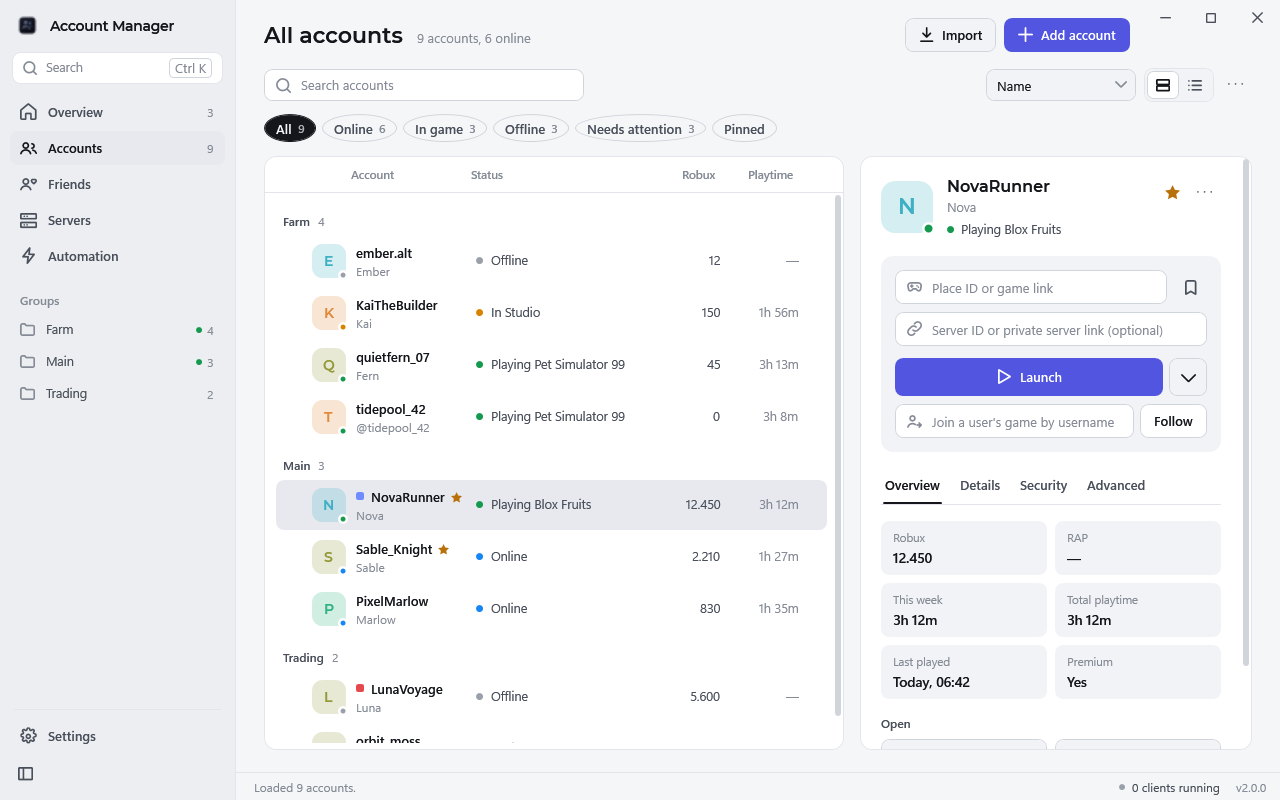
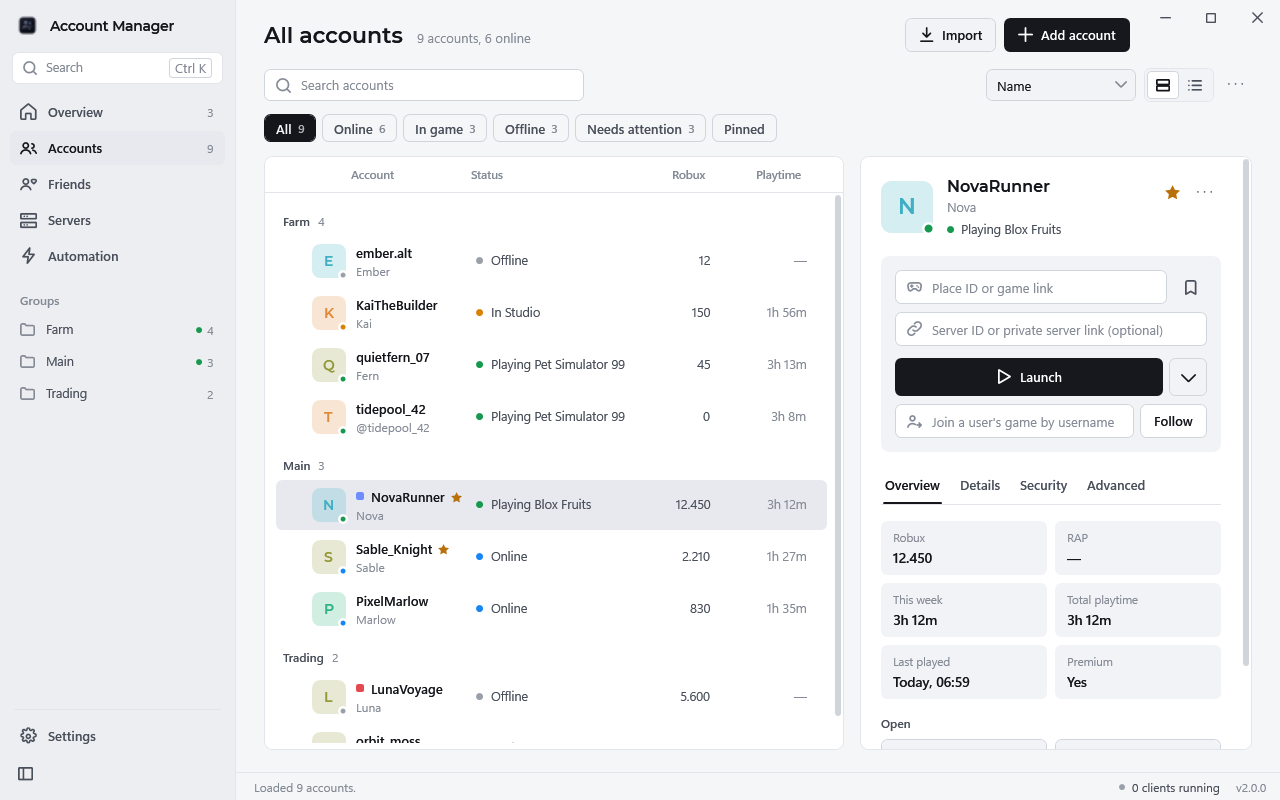
Tighter corner radii across the interface, shorter duration format
- Chips and badges are rounded rectangles instead of pills; radius scale reduced
  (3/4/6/8/10), switches, avatars, swatches and dialog footers follow it
- German and Polish durations use "h"/"min" so playtime no longer clips in the
  account list and on the Overview; playtime column slightly wider
- README screenshots re-rendered, appearance feature line corrected

diff --git a/src/Views/AccountsPage.xaml b/src/Views/AccountsPage.xaml
@@ -17,16 +17,16 @@
                     <ColumnDefinition Width="26" />
                     <ColumnDefinition Width="44" />
                     <ColumnDefinition Width="*" MinWidth="120" />
-                    <ColumnDefinition Width="170" />
+                    <ColumnDefinition Width="160" />
                     <ColumnDefinition Width="86" />
-                    <ColumnDefinition Width="78" />
+                    <ColumnDefinition Width="96" />
                     <ColumnDefinition Width="52" />
                 </Grid.ColumnDefinitions>
 
                 <CheckBox x:Name="check" VerticalAlignment="Center" Focusable="False" Opacity="0"
                           IsChecked="{Binding IsChecked, Mode=TwoWay, UpdateSourceTrigger=PropertyChanged}" />
 
-                <ctl:AvatarView Grid.Column="1" Width="34" Height="34" CornerRadius="10" PipSize="10" HorizontalAlignment="Left"
+                <ctl:AvatarView Grid.Column="1" Width="34" Height="34" CornerRadius="8" PipSize="10" HorizontalAlignment="Left"
                                 ImageUrl="{Binding ThumbnailUrl}" NameText="{Binding Username}" Presence="{Binding Presence}"
                                 RingBrush="{DynamicResource SurfaceBrush}" />
 
@@ -60,14 +60,14 @@
                 <StackPanel Grid.Column="3" Orientation="Horizontal" VerticalAlignment="Center" Margin="0,0,10,0">
                     <Ellipse Style="{StaticResource StatusDot}" Fill="{Binding Presence, Converter={StaticResource PresenceToBrush}}" Margin="0,0,8,0" />
                     <TextBlock Text="{Binding StatusLine}" FontSize="12.5" Foreground="{DynamicResource TextSecondaryBrush}"
-                               TextTrimming="CharacterEllipsis" MaxWidth="150" ToolTip="{Binding StatusLine}" />
+                               TextTrimming="CharacterEllipsis" MaxWidth="134" ToolTip="{Binding StatusLine}" />
                 </StackPanel>
 
                 <TextBlock Grid.Column="4" Text="{Binding RobuxDisplay}" VerticalAlignment="Center" HorizontalAlignment="Right"
                            FontSize="12.5" Foreground="{DynamicResource TextSecondaryBrush}" Margin="0,0,12,0" />
 
                 <TextBlock Grid.Column="5" Text="{Binding Playtime7dText}" VerticalAlignment="Center" HorizontalAlignment="Right"
-                           FontSize="12.5" Foreground="{DynamicResource TextMutedBrush}" Margin="0,0,12,0"
+                           FontSize="12.5" Foreground="{DynamicResource TextMutedBrush}" Margin="0,0,12,0" TextTrimming="CharacterEllipsis"
                            ToolTip="{DynamicResource Str.Accounts.Column.PlaytimeTip}" />
 
                 <StackPanel Grid.Column="6" Orientation="Horizontal" HorizontalAlignment="Right" VerticalAlignment="Center" Margin="0,0,6,0">
@@ -142,14 +142,14 @@
                     <ColumnDefinition Width="26" />
                     <ColumnDefinition Width="44" />
                     <ColumnDefinition Width="*" MinWidth="120" />
-                    <ColumnDefinition Width="170" />
+                    <ColumnDefinition Width="160" />
                     <ColumnDefinition Width="86" />
-                    <ColumnDefinition Width="78" />
+                    <ColumnDefinition Width="96" />
                     <ColumnDefinition Width="52" />
                 </Grid.ColumnDefinitions>
                 <CheckBox x:Name="check" VerticalAlignment="Center" Focusable="False" Opacity="0"
                           IsChecked="{Binding IsChecked, Mode=TwoWay, UpdateSourceTrigger=PropertyChanged}" />
-                <ctl:AvatarView Grid.Column="1" Width="22" Height="22" CornerRadius="6" PipSize="8" HorizontalAlignment="Left"
+                <ctl:AvatarView Grid.Column="1" Width="22" Height="22" CornerRadius="5" PipSize="8" HorizontalAlignment="Left"
                                 ImageUrl="{Binding ThumbnailUrl}" NameText="{Binding Username}" Presence="{Binding Presence}" />
                 <StackPanel Grid.Column="2" Orientation="Horizontal" VerticalAlignment="Center" Margin="0,0,12,0">
                     <Border Width="8" Height="8" CornerRadius="2" Margin="0,0,7,0" VerticalAlignment="Center"
@@ -170,12 +170,12 @@
                 <StackPanel Grid.Column="3" Orientation="Horizontal" VerticalAlignment="Center" Margin="0,0,10,0">
                     <Ellipse Style="{StaticResource StatusDot}" Fill="{Binding Presence, Converter={StaticResource PresenceToBrush}}" Margin="0,0,8,0" />
                     <TextBlock Text="{Binding StatusLine}" FontSize="12.5" Foreground="{DynamicResource TextSecondaryBrush}"
-                               TextTrimming="CharacterEllipsis" MaxWidth="150" />
+                               TextTrimming="CharacterEllipsis" MaxWidth="134" />
                 </StackPanel>
                 <TextBlock Grid.Column="4" Text="{Binding RobuxDisplay}" VerticalAlignment="Center" HorizontalAlignment="Right"
                            FontSize="12.5" Foreground="{DynamicResource TextSecondaryBrush}" Margin="0,0,12,0" />
                 <TextBlock Grid.Column="5" Text="{Binding Playtime7dText}" VerticalAlignment="Center" HorizontalAlignment="Right"
-                           FontSize="12.5" Foreground="{DynamicResource TextMutedBrush}" Margin="0,0,12,0" />
+                           FontSize="12.5" Foreground="{DynamicResource TextMutedBrush}" Margin="0,0,12,0" TextTrimming="CharacterEllipsis" />
                 <StackPanel Grid.Column="6" Orientation="Horizontal" HorizontalAlignment="Right" VerticalAlignment="Center" Margin="0,0,6,0">
                     <Path Data="{StaticResource Icon.Monitor}" Style="{StaticResource IconPath}" Width="13" Height="13" Margin="0,0,6,0"
                           Stroke="{DynamicResource PresenceInGameBrush}"
@@ -362,9 +362,9 @@
                             <ColumnDefinition Width="26" />
                             <ColumnDefinition Width="44" />
                             <ColumnDefinition Width="*" MinWidth="120" />
-                            <ColumnDefinition Width="170" />
+                            <ColumnDefinition Width="160" />
                             <ColumnDefinition Width="86" />
-                            <ColumnDefinition Width="78" />
+                            <ColumnDefinition Width="96" />
                             <ColumnDefinition Width="52" />
                         </Grid.ColumnDefinitions>
                         <TextBlock Grid.Column="2" Text="{DynamicResource Str.Accounts.Column.Account}" Style="{StaticResource ColumnHeader}" />
@@ -413,7 +413,7 @@
                     <!-- empty: no accounts at all -->
                     <StackPanel Grid.Row="1" HorizontalAlignment="Center" VerticalAlignment="Center" MaxWidth="360"
                                 Visibility="{Binding IsStoreEmpty, Converter={StaticResource BoolToVis}}">
-                        <Border Width="52" Height="52" CornerRadius="16" HorizontalAlignment="Center" Background="{DynamicResource SurfaceAltBrush}">
+                        <Border Width="52" Height="52" CornerRadius="10" HorizontalAlignment="Center" Background="{DynamicResource SurfaceAltBrush}">
                             <Path Data="{StaticResource Icon.UserPlus}" Style="{StaticResource IconPath}" Width="22" Height="22" HorizontalAlignment="Center" />
                         </Border>
                         <TextBlock Text="{DynamicResource Str.Accounts.Empty.Title}" Style="{StaticResource Text.Heading}" HorizontalAlignment="Center" Margin="0,16,0,6" />
@@ -479,7 +479,7 @@
                                     <ColumnDefinition Width="*" />
                                     <ColumnDefinition Width="Auto" />
                                 </Grid.ColumnDefinitions>
-                                <ctl:AvatarView Width="52" Height="52" CornerRadius="14" PipSize="13"
+                                <ctl:AvatarView Width="52" Height="52" CornerRadius="10" PipSize="13"
                                                 ImageUrl="{Binding Selected.ThumbnailUrl}" NameText="{Binding Selected.Username}"
                                                 Presence="{Binding Selected.Presence}" RingBrush="{DynamicResource SurfaceBrush}" />
                                 <StackPanel Grid.Column="1" Margin="14,0,8,0" VerticalAlignment="Center">
@@ -550,7 +550,7 @@
                                             <ColumnDefinition Width="Auto" />
                                             <ColumnDefinition Width="*" />
                                         </Grid.ColumnDefinitions>
-                                        <Border Width="40" Height="40" CornerRadius="9">
+                                        <Border Width="40" Height="40" CornerRadius="8">
                                             <Border.Background>
                                                 <ImageBrush Stretch="UniformToFill" ImageSource="{Binding GameIcon, Converter={StaticResource UrlToImage}}" />
                                             </Border.Background>
@@ -599,8 +599,8 @@
                                                                                     <ColumnDefinition Width="Auto" />
                                                                                     <ColumnDefinition Width="*" />
                                                                                 </Grid.ColumnDefinitions>
-                                                                                <Border Width="28" Height="28" CornerRadius="7" Background="{DynamicResource SurfaceAltBrush}">
-                                                                                    <Border CornerRadius="7">
+                                                                                <Border Width="28" Height="28" CornerRadius="6" Background="{DynamicResource SurfaceAltBrush}">
+                                                                                    <Border CornerRadius="6">
                                                                                         <Border.Background>
                                                                                             <ImageBrush Stretch="UniformToFill" ImageSource="{Binding IconUrl, Converter={StaticResource UrlToImage}}" />
                                                                                         </Border.Background>
@@ -789,8 +789,8 @@
                                                     <Button.Template>
                                                         <ControlTemplate TargetType="Button">
                                                             <Grid>
-                                                                <Border x:Name="ring" CornerRadius="12" BorderThickness="2" BorderBrush="Transparent" />
-                                                                <Border Margin="4" CornerRadius="8" Background="{Binding Converter={StaticResource HexToBrush}}" />
+                                                                <Border x:Name="ring" CornerRadius="6" BorderThickness="2" BorderBrush="Transparent" />
+                                                                <Border Margin="4" CornerRadius="3" Background="{Binding Converter={StaticResource HexToBrush}}" />
                                                             </Grid>
                                                             <ControlTemplate.Triggers>
                                                                 <Trigger Property="IsMouseOver" Value="True">

diff --git a/src/Themes/Controls.xaml b/src/Themes/Controls.xaml
@@ -14,7 +14,7 @@
         <Setter Property="Control.Template">
             <Setter.Value>
                 <ControlTemplate>
-                    <Border Margin="-3" CornerRadius="10" BorderThickness="2"
+                    <Border Margin="-3" CornerRadius="8" BorderThickness="2"
                             BorderBrush="{DynamicResource FocusBrush}" SnapsToDevicePixels="True" />
                 </ControlTemplate>
             </Setter.Value>
@@ -97,6 +97,7 @@
     <Style x:Key="Text.Metric" TargetType="TextBlock">
         <Setter Property="FontFamily" Value="{StaticResource DisplayFont}" />
         <Setter Property="FontSize" Value="24" />
+        <Setter Property="TextTrimming" Value="CharacterEllipsis" />
         <Setter Property="FontWeight" Value="SemiBold" />
         <Setter Property="Foreground" Value="{DynamicResource TextPrimaryBrush}" />
         <Setter Property="TextOptions.TextFormattingMode" Value="Ideal" />
@@ -141,7 +142,7 @@
     </Style>
 
     <Style x:Key="Badge" TargetType="Border">
-        <Setter Property="CornerRadius" Value="{StaticResource RadiusPill}" />
+        <Setter Property="CornerRadius" Value="{StaticResource RadiusSm}" />
         <Setter Property="Background" Value="{DynamicResource SurfaceAltBrush}" />
         <Setter Property="Padding" Value="7,1,7,2" />
         <Setter Property="VerticalAlignment" Value="Center" />
@@ -360,7 +361,7 @@
         <Setter Property="Template">
             <Setter.Value>
                 <ControlTemplate TargetType="ToggleButton">
-                    <Border x:Name="bd" CornerRadius="{StaticResource RadiusPill}" Padding="{TemplateBinding Padding}"
+                    <Border x:Name="bd" CornerRadius="{StaticResource RadiusMd}" Padding="{TemplateBinding Padding}"
                             Background="Transparent" BorderBrush="{DynamicResource HairlineStrongBrush}" BorderThickness="1">
                         <StackPanel Orientation="Horizontal" VerticalAlignment="Center">
                             <ContentPresenter VerticalAlignment="Center" TextElement.Foreground="{TemplateBinding Foreground}" />
@@ -409,7 +410,7 @@
         <Setter Property="Template">
             <Setter.Value>
                 <ControlTemplate TargetType="ToggleButton">
-                    <Border x:Name="bd" CornerRadius="6" Padding="{TemplateBinding Padding}" Background="Transparent"
+                    <Border x:Name="bd" CornerRadius="{StaticResource RadiusSm}" Padding="{TemplateBinding Padding}" Background="Transparent"
                             BorderThickness="1" BorderBrush="Transparent">
                         <StackPanel Orientation="Horizontal" HorizontalAlignment="Center" VerticalAlignment="Center">
                             <Path x:Name="icon" Data="{TemplateBinding ctl:Ui.Icon}" Style="{StaticResource IconPath}"
@@ -663,7 +664,7 @@
                             <ColumnDefinition Width="Auto" />
                             <ColumnDefinition Width="*" />
                         </Grid.ColumnDefinitions>
-                        <Border x:Name="box" Width="16" Height="16" CornerRadius="4" VerticalAlignment="Center"
+                        <Border x:Name="box" Width="16" Height="16" CornerRadius="{StaticResource RadiusXs}" VerticalAlignment="Center"
                                 Background="{DynamicResource SurfaceAltBrush}"
                                 BorderBrush="{DynamicResource HairlineStrongBrush}" BorderThickness="1.5">
                             <Path x:Name="check" Data="{StaticResource Icon.Check}" Width="10" Height="10"
@@ -702,8 +703,8 @@
         <Setter Property="Template">
             <Setter.Value>
                 <ControlTemplate TargetType="CheckBox">
-                    <Border x:Name="track" Width="36" Height="20" CornerRadius="10" Background="{DynamicResource HairlineStrongBrush}">
-                        <Border x:Name="thumb" Width="14" Height="14" CornerRadius="7" HorizontalAlignment="Left"
+                    <Border x:Name="track" Width="36" Height="20" CornerRadius="{StaticResource RadiusMd}" Background="{DynamicResource HairlineStrongBrush}">
+                        <Border x:Name="thumb" Width="14" Height="14" CornerRadius="{StaticResource RadiusXs}" HorizontalAlignment="Left"
                                 Margin="3,0,0,0" Background="{DynamicResource TextMutedBrush}">
                             <Border.RenderTransform>
                                 <TranslateTransform x:Name="shift" X="0" />

diff --git a/src/Views/DashboardPage.xaml b/src/Views/DashboardPage.xaml
@@ -171,7 +171,7 @@
                                                         <ColumnDefinition Width="80" />
                                                         <ColumnDefinition Width="Auto" />
                                                     </Grid.ColumnDefinitions>
-                                                    <ctl:AvatarView Width="30" Height="30" CornerRadius="9" HorizontalAlignment="Left"
+                                                    <ctl:AvatarView Width="30" Height="30" CornerRadius="7" HorizontalAlignment="Left"
                                                                     ImageUrl="{Binding Account.ThumbnailUrl}" NameText="{Binding Name}" />
                                                     <StackPanel Grid.Column="1" VerticalAlignment="Center" Margin="0,0,10,0">
                                                         <TextBlock Text="{Binding Name}" FontWeight="Medium" TextTrimming="CharacterEllipsis" Foreground="{DynamicResource TextPrimaryBrush}" />
@@ -238,7 +238,7 @@
                                                         <ColumnDefinition Width="*" />
                                                         <ColumnDefinition Width="Auto" />
                                                     </Grid.ColumnDefinitions>
-                                                    <ctl:AvatarView Width="28" Height="28" CornerRadius="8" HorizontalAlignment="Left"
+                                                    <ctl:AvatarView Width="28" Height="28" CornerRadius="6" HorizontalAlignment="Left"
                                                                     ImageUrl="{Binding ThumbnailUrl}" NameText="{Binding Username}" />
                                                     <StackPanel Grid.Column="1" VerticalAlignment="Center" Margin="0,0,8,0">
                                                         <TextBlock FontWeight="Medium" TextTrimming="CharacterEllipsis" Foreground="{DynamicResource TextPrimaryBrush}">
@@ -319,7 +319,7 @@
                                                                     <ColumnDefinition Width="38" />
                                                                     <ColumnDefinition Width="*" />
                                                                 </Grid.ColumnDefinitions>
-                                                                <ctl:AvatarView Width="28" Height="28" CornerRadius="8" PipSize="9" HorizontalAlignment="Left"
+                                                                <ctl:AvatarView Width="28" Height="28" CornerRadius="6" PipSize="9" HorizontalAlignment="Left"
                                                                                 ImageUrl="{Binding ThumbnailUrl}" NameText="{Binding Username}" Presence="{Binding Presence}" />
                                                                 <StackPanel Grid.Column="1" VerticalAlignment="Center">
                                                                     <TextBlock FontWeight="Medium" TextTrimming="CharacterEllipsis" Foreground="{DynamicResource TextPrimaryBrush}">

diff --git a/src/Views/MainWindow.xaml b/src/Views/MainWindow.xaml
@@ -489,7 +489,7 @@
                                             </Grid.ColumnDefinitions>
                                             <Path x:Name="icon" Data="{Binding IconKey, Converter={StaticResource IconKeyConverter}}"
                                                   Style="{StaticResource IconPath}" HorizontalAlignment="Left" />
-                                            <ctl:AvatarView x:Name="avatar" Width="24" Height="24" CornerRadius="7" PipSize="8"
+                                            <ctl:AvatarView x:Name="avatar" Width="24" Height="24" CornerRadius="5" PipSize="8"
                                                             HorizontalAlignment="Left" Visibility="Collapsed"
                                                             RingBrush="{DynamicResource ElevatedBrush}"
                                                             ImageUrl="{Binding ImageUrl}" NameText="{Binding Title}" Presence="{Binding Presence}" />
@@ -524,7 +524,7 @@
                   Visibility="{Binding IsLocked, Converter={StaticResource BoolToVis}}"
                   IsVisibleChanged="Lock_IsVisibleChanged">
                 <StackPanel Width="340" HorizontalAlignment="Center" VerticalAlignment="Center">
-                    <Border Width="52" Height="52" CornerRadius="16" HorizontalAlignment="Center" Background="{DynamicResource SurfaceAltBrush}">
+                    <Border Width="52" Height="52" CornerRadius="10" HorizontalAlignment="Center" Background="{DynamicResource SurfaceAltBrush}">
                         <Path Data="{StaticResource Icon.Lock}" Style="{StaticResource IconPath}" Width="22" Height="22"
                               Stroke="{DynamicResource TextPrimaryBrush}" HorizontalAlignment="Center" />
                     </Border>

diff --git a/src/Views/ServerBrowserPage.xaml b/src/Views/ServerBrowserPage.xaml
@@ -47,8 +47,8 @@
                     <ColumnDefinition Width="Auto" />
                     <ColumnDefinition Width="*" />
                 </Grid.ColumnDefinitions>
-                <Border Width="34" Height="34" CornerRadius="8" Background="{DynamicResource SurfaceAltBrush}">
-                    <Border CornerRadius="8">
+                <Border Width="34" Height="34" CornerRadius="7" Background="{DynamicResource SurfaceAltBrush}">
+                    <Border CornerRadius="7">
                         <Border.Background>
                             <ImageBrush Stretch="UniformToFill" ImageSource="{Binding PlaceIcon, Converter={StaticResource UrlToImage}}" />
                         </Border.Background>
@@ -179,7 +179,7 @@
                             <ComboBox.ItemTemplate>
                                 <DataTemplate DataType="{x:Type models:Account}">
                                     <StackPanel Orientation="Horizontal">
-                                        <ctl:AvatarView Width="20" Height="20" CornerRadius="6" ImageUrl="{Binding ThumbnailUrl}" NameText="{Binding Username}" Presence="{Binding Presence}" PipSize="7" RingBrush="{DynamicResource ElevatedBrush}" />
+                                        <ctl:AvatarView Width="20" Height="20" CornerRadius="5" ImageUrl="{Binding ThumbnailUrl}" NameText="{Binding Username}" Presence="{Binding Presence}" PipSize="7" RingBrush="{DynamicResource ElevatedBrush}" />
                                         <TextBlock Margin="9,0,0,0" VerticalAlignment="Center" TextTrimming="CharacterEllipsis">
                                             <TextBlock.Text>
                                                 <MultiBinding Converter="{StaticResource MaskConverter}">

diff --git a/src/Views/FriendsPage.xaml b/src/Views/FriendsPage.xaml
@@ -28,7 +28,7 @@
                     <ComboBox.ItemTemplate>
                         <DataTemplate DataType="{x:Type models:Account}">
                             <StackPanel Orientation="Horizontal">
-                                <ctl:AvatarView Width="20" Height="20" CornerRadius="6" ImageUrl="{Binding ThumbnailUrl}" NameText="{Binding Username}" />
+                                <ctl:AvatarView Width="20" Height="20" CornerRadius="5" ImageUrl="{Binding ThumbnailUrl}" NameText="{Binding Username}" />
                                 <TextBlock Margin="9,0,0,0" VerticalAlignment="Center" TextTrimming="CharacterEllipsis">
                                     <TextBlock.Text>
                                         <MultiBinding Converter="{StaticResource MaskConverter}">
@@ -88,7 +88,7 @@
                                     <ColumnDefinition Width="2*" />
                                     <ColumnDefinition Width="Auto" />
                                 </Grid.ColumnDefinitions>
-                                <ctl:AvatarView Width="36" Height="36" CornerRadius="18" PipSize="11" HorizontalAlignment="Left"
+                                <ctl:AvatarView Width="36" Height="36" CornerRadius="8" PipSize="11" HorizontalAlignment="Left"
                                                 ImageUrl="{Binding HeadshotUrl}" NameText="{Binding Username}" Presence="{Binding Presence}" />
                                 <StackPanel Grid.Column="1" VerticalAlignment="Center" Margin="0,0,12,0">
                                     <TextBlock FontWeight="Medium" TextTrimming="CharacterEllipsis" Foreground="{DynamicResource TextPrimaryBrush}">

diff --git a/src/Views/AutomationPage.xaml b/src/Views/AutomationPage.xaml
@@ -165,7 +165,7 @@
                                             <DataTemplate DataType="{x:Type vm:PresetMember}">
                                                 <CheckBox Width="230" Height="38" Margin="6,2" IsChecked="{Binding IsIncluded}">
                                                     <StackPanel Orientation="Horizontal">
-                                                        <ctl:AvatarView Width="24" Height="24" CornerRadius="7" ImageUrl="{Binding Account.ThumbnailUrl}"
+                                                        <ctl:AvatarView Width="24" Height="24" CornerRadius="5" ImageUrl="{Binding Account.ThumbnailUrl}"
                                                                         NameText="{Binding Account.Username}" />
                                                         <TextBlock Text="{Binding Account.DisplayNameOrUser}" Margin="9,0,0,0" VerticalAlignment="Center"
                                                                    TextTrimming="CharacterEllipsis" MaxWidth="160" />

diff --git a/src/Themes/Colors.xaml b/src/Themes/Colors.xaml
@@ -107,12 +107,11 @@
     <FontFamily x:Key="MonoFont">Cascadia Mono, Consolas</FontFamily>
 
     <!-- ============ Radii ============ -->
-    <CornerRadius x:Key="RadiusXs">4</CornerRadius>
-    <CornerRadius x:Key="RadiusSm">6</CornerRadius>
-    <CornerRadius x:Key="RadiusMd">8</CornerRadius>
-    <CornerRadius x:Key="RadiusLg">12</CornerRadius>
-    <CornerRadius x:Key="RadiusXl">16</CornerRadius>
-    <CornerRadius x:Key="RadiusPill">999</CornerRadius>
+    <CornerRadius x:Key="RadiusXs">3</CornerRadius>
+    <CornerRadius x:Key="RadiusSm">4</CornerRadius>
+    <CornerRadius x:Key="RadiusMd">6</CornerRadius>
+    <CornerRadius x:Key="RadiusLg">8</CornerRadius>
+    <CornerRadius x:Key="RadiusXl">10</CornerRadius>
 
     <!-- Only floating layers cast a shadow: menus, popovers, dialogs, toasts. -->
     <DropShadowEffect x:Key="ShadowFloating" BlurRadius="28" ShadowDepth="8" Direction="270"

diff --git a/src/Views/Settings/AppearanceSettings.xaml b/src/Views/Settings/AppearanceSettings.xaml
@@ -98,7 +98,7 @@
                                 <ColumnDefinition Width="*" />
                                 <ColumnDefinition Width="Auto" />
                             </Grid.ColumnDefinitions>
-                            <Border x:Name="sw" Width="22" Height="22" CornerRadius="6" BorderThickness="1"
+                            <Border x:Name="sw" Width="22" Height="22" CornerRadius="{StaticResource RadiusSm}" BorderThickness="1"
                                     BorderBrush="{DynamicResource HairlineStrongBrush}" Background="{Binding Hex, Converter={StaticResource HexToBrush}}" />
                             <TextBlock Grid.Column="1" Text="{Binding Label}" Margin="10,0,8,0" VerticalAlignment="Center"
                                        Foreground="{DynamicResource TextSecondaryBrush}" TextTrimming="CharacterEllipsis" />

diff --git a/src/Views/UpdaterWindow.xaml b/src/Views/UpdaterWindow.xaml
@@ -41,7 +41,7 @@
                 </Grid>
             </StackPanel>
 
-            <Border Grid.Row="1" Background="{DynamicResource SurfaceAltBrush}" CornerRadius="0,0,11,11"
+            <Border Grid.Row="1" Background="{DynamicResource SurfaceAltBrush}" CornerRadius="0,0,7,7"
                     BorderBrush="{DynamicResource HairlineBrush}" BorderThickness="0,1,0,0" Padding="24,14">
                 <StackPanel Orientation="Horizontal" HorizontalAlignment="Right">
                     <Button x:Name="StartAnywayButton" Style="{StaticResource Btn.Secondary}" Visibility="Collapsed" Margin="0,0,8,0" Click="StartAnyway_Click" />

diff --git a/src/Views/ChromiumDownloadDialog.xaml b/src/Views/ChromiumDownloadDialog.xaml
@@ -29,7 +29,7 @@
                 </Grid>
             </StackPanel>
 
-            <Border Grid.Row="1" Background="{DynamicResource SurfaceAltBrush}" CornerRadius="0,0,11,11"
+            <Border Grid.Row="1" Background="{DynamicResource SurfaceAltBrush}" CornerRadius="0,0,7,7"
                     BorderBrush="{DynamicResource HairlineBrush}" BorderThickness="0,1,0,0" Padding="24,14">
                 <Button x:Name="CancelBtn" Style="{StaticResource Btn.Secondary}" MinWidth="96" HorizontalAlignment="Right"
                         Content="{DynamicResource Str.Common.Cancel}" Click="Cancel_Click" />

diff --git a/src/Views/MessageDialog.xaml b/src/Views/MessageDialog.xaml
@@ -35,7 +35,7 @@
                 </Grid>
             </StackPanel>
 
-            <Border Grid.Row="1" Background="{DynamicResource SurfaceAltBrush}" CornerRadius="0,0,11,11"
+            <Border Grid.Row="1" Background="{DynamicResource SurfaceAltBrush}" CornerRadius="0,0,7,7"
                     BorderBrush="{DynamicResource HairlineBrush}" BorderThickness="0,1,0,0" Padding="24,14">
                 <StackPanel Orientation="Horizontal" HorizontalAlignment="Right">
                     <Button x:Name="CancelBtn" Style="{StaticResource Btn.Secondary}" MinWidth="96" Margin="0,0,8,0"
